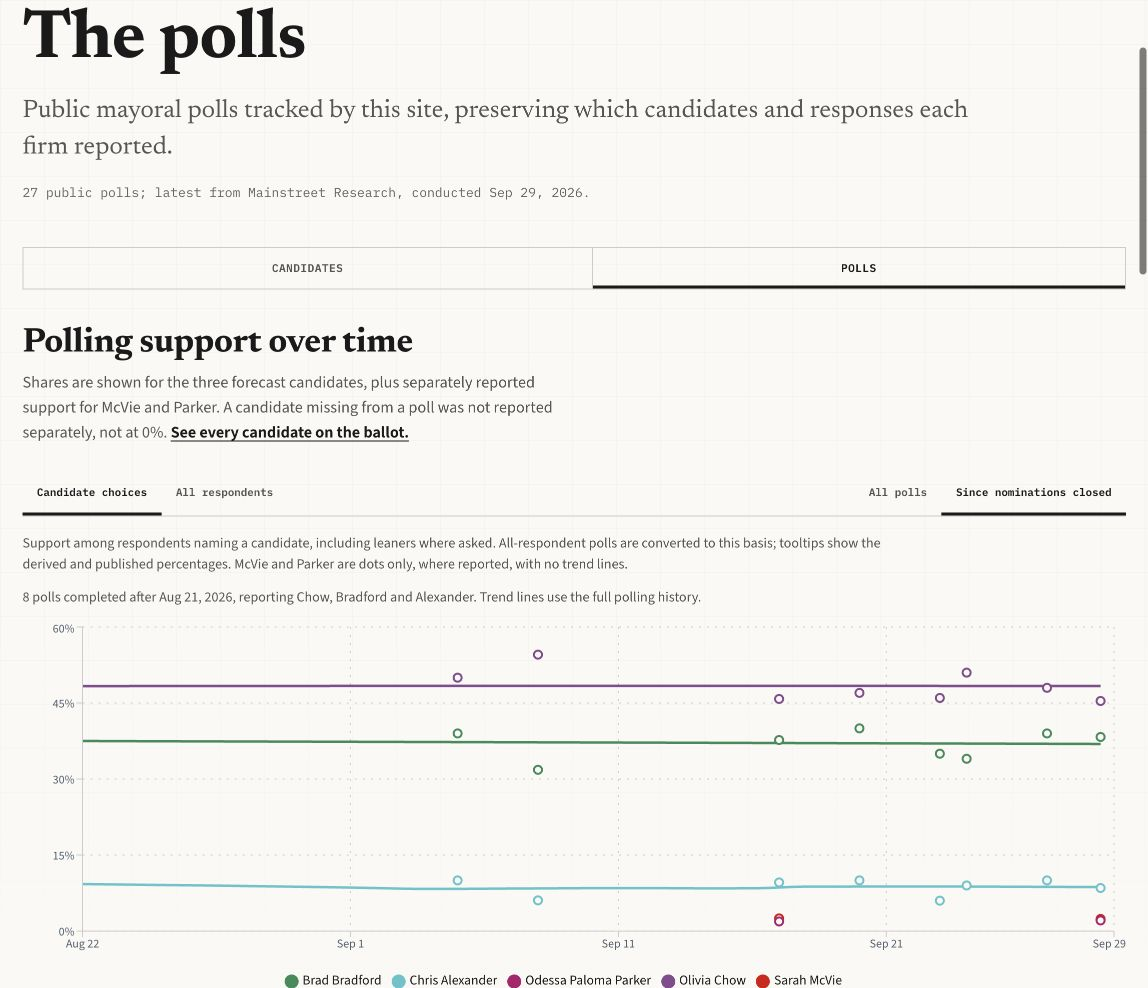
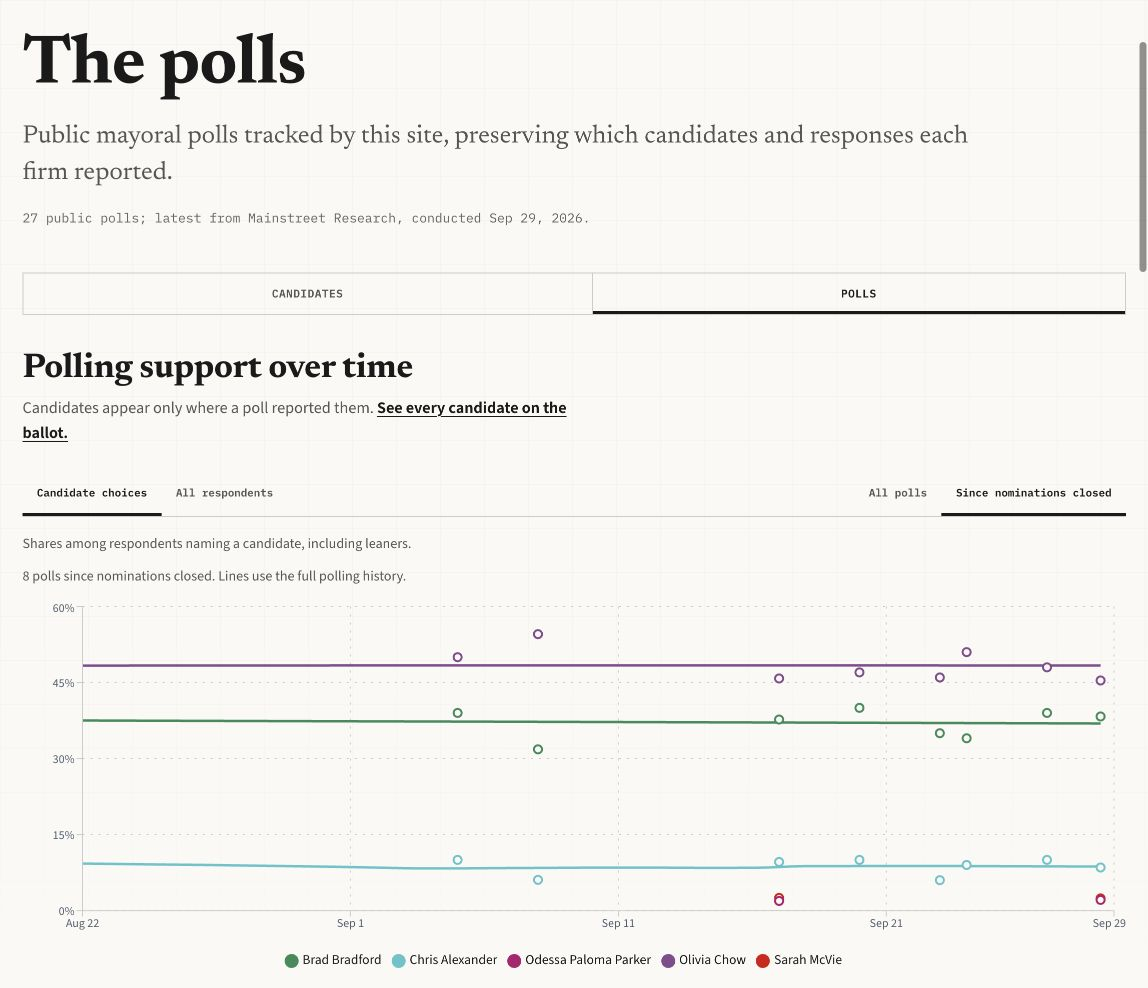
Simplify polling chart captions

diff --git a/src/components/polling-trend-views.tsx b/src/components/polling-trend-views.tsx
@@ -4,7 +4,7 @@ import { useState, type ReactNode } from "react";
 import { PollingChart, pollingTrendSummaryRows, type ChartSeries } from "./polling-chart";
 import { PollPeriodToggle } from "./poll-period-toggle";
 import { ALL_RESPONDENT_OTHER_ID, ALL_RESPONDENT_UNDECIDED_ID, NOMINATIONS_CLOSED_DATE, type CandidateTrend } from "@/lib/polling";
-import { formatDate, isoDayNumber } from "@/lib/format";
+import { isoDayNumber } from "@/lib/format";
 
 const RESPONSE_SERIES: ChartSeries[] = [
   { id: ALL_RESPONDENT_OTHER_ID, name: "Other candidates combined", color: "#7A6A57", hatch: false, pointsOnly: true },
@@ -52,24 +52,17 @@ export function PollingTrendViews({
       </div>
       <p className="evidence-explainer">
         {allRespondents ? (
-          <>Published support among all respondents; leaners are included where assigned.
-            Other candidates and undecided / don’t know are dots only, where reported.
-            Other candidates combined includes McVie, Parker and all reported
-            choices outside the three forecast candidates;
-            non-voters are kept separate.</>
+          <>Shares of all respondents, including undecided voters.
+            {" "}Other candidates combined includes McVie and Parker.</>
         ) : (
-          <>Support among respondents naming a candidate, including leaners where asked.
-            All-respondent polls are converted to this basis; tooltips show the
-            derived and published percentages.</>
+          <>Shares among respondents naming a candidate, including leaners.</>
         )}
-        {" "}McVie and Parker are dots only, where reported, with no trend lines.
       </p>
       {!qualified && !allRespondents && allPollNote}
       {qualified && (
         <p className="evidence-explainer" role="status">
-          {qualifiedCount} {qualifiedCount === 1 ? "poll completed" : "polls completed"} after{" "}
-          {formatDate(NOMINATIONS_CLOSED_DATE)}, reporting Chow, Bradford and Alexander.
-          {" "}Trend lines use the full polling history.
+          {qualifiedCount} {qualifiedCount === 1 ? "poll" : "polls"} since nominations closed.
+          {" "}Lines use the full polling history.
         </p>
       )}
       {qualified && qualifiedCount === 0 ? (

diff --git a/src/components/polling-trend-views.test.tsx b/src/components/polling-trend-views.test.tsx
@@ -37,7 +37,7 @@ describe("polling trend views", () => {
     expect(all.getAttribute("aria-pressed")).toBe("false");
     expect(screen.getByTestId("chart-window").textContent)
       .toBe([isoDayNumber("2026-08-22"), isoDayNumber("2026-09-24") + 0.5].join(","));
-    expect(screen.getByRole("status").textContent).toBe("1 poll completed after Aug 21, 2026, reporting Chow, Bradford and Alexander. Trend lines use the full polling history.");
+    expect(screen.getByRole("status").textContent).toBe("1 poll since nominations closed. Lines use the full polling history.");
     expect(screen.getByText(/Olivia Chow: 1 poll shown at 50.0%/)).toBeTruthy();
     expect(screen.queryByText(/Olivia Chow: 2 polls shown/)).toBeNull();
     expect(screen.queryByText("Unknown basis poll is excluded.")).toBeNull();
@@ -66,7 +66,7 @@ describe("polling trend views", () => {
       .toBe("Olivia Chow,Other candidates combined,Undecided / don’t know");
     expect(screen.getByRole("button", { name: "Since nominations closed" }).getAttribute("aria-pressed")).toBe("true");
     expect(screen.getByText(/Olivia Chow: 1 poll shown at 36.0%/)).toBeTruthy();
-    expect(screen.getByText(/Published support among all respondents/)).toBeTruthy();
+    expect(screen.getByText(/Shares of all respondents, including undecided voters/)).toBeTruthy();
     expect(screen.queryByText(/Points show support among respondents naming a/)).toBeNull();
     fireEvent.click(screen.getByRole("button", { name: "All polls" }));
     expect(screen.getByTestId("chart-window").getAttribute("data-series"))

diff --git a/src/lib/polls-page.test.tsx b/src/lib/polls-page.test.tsx
@@ -44,7 +44,7 @@ describe("Polls page", () => {
     const html = renderToStaticMarkup(await PollsPage());
     const support = html.split('aria-labelledby="trend-heading"')[1].split('</section>')[0];
     const history = html.split('aria-labelledby="forecast-history-heading"')[1].split('</section>')[0];
-    expect(support).toContain("3 polls completed");
+    expect(support).toContain("3 polls");
     expect(support).toContain("Sarah McVie: 2 polls shown, from 2.5%");
     expect(support).toContain("to 2.4%");
     expect(support).toContain("Odessa Paloma Parker: 2 polls shown, from 1.9%");
@@ -67,9 +67,8 @@ describe("Polls page", () => {
     mocks.loadMayoralForecast.mockResolvedValue(forecastFixture);
     mocks.loadMayoralPolling.mockResolvedValue(polling);
     const html = renderToStaticMarkup(await PollsPage());
-    expect(html).toContain("Support among respondents naming a candidate");
-    expect(html).toContain("derived and published percentages");
-    expect(html).toContain("1 poll completed");
+    expect(html).toContain("Shares among respondents naming a candidate");
+    expect(html).toContain("1 poll");
     expect(html).toContain("Unknown basis firm");
     expect(html).toContain("54.5%");
     expect(html).toMatch(/data-label="Olivia Chow"[^>]*>36%/);

diff --git a/src/components/polling-scope-note.tsx b/src/components/polling-scope-note.tsx
@@ -3,9 +3,7 @@ import Link from "next/link";
 export function PollingScopeNote() {
   return (
     <p className="polling-scope-note">
-      Shares are shown for the three forecast candidates, plus separately reported
-      support for McVie and Parker. A candidate missing from a poll was not reported
-      separately, not at 0%.{" "}
+      Candidates appear only where a poll reported them.{" "}
       <Link href="/candidates">See every candidate on the ballot.</Link>
     </p>
   );
